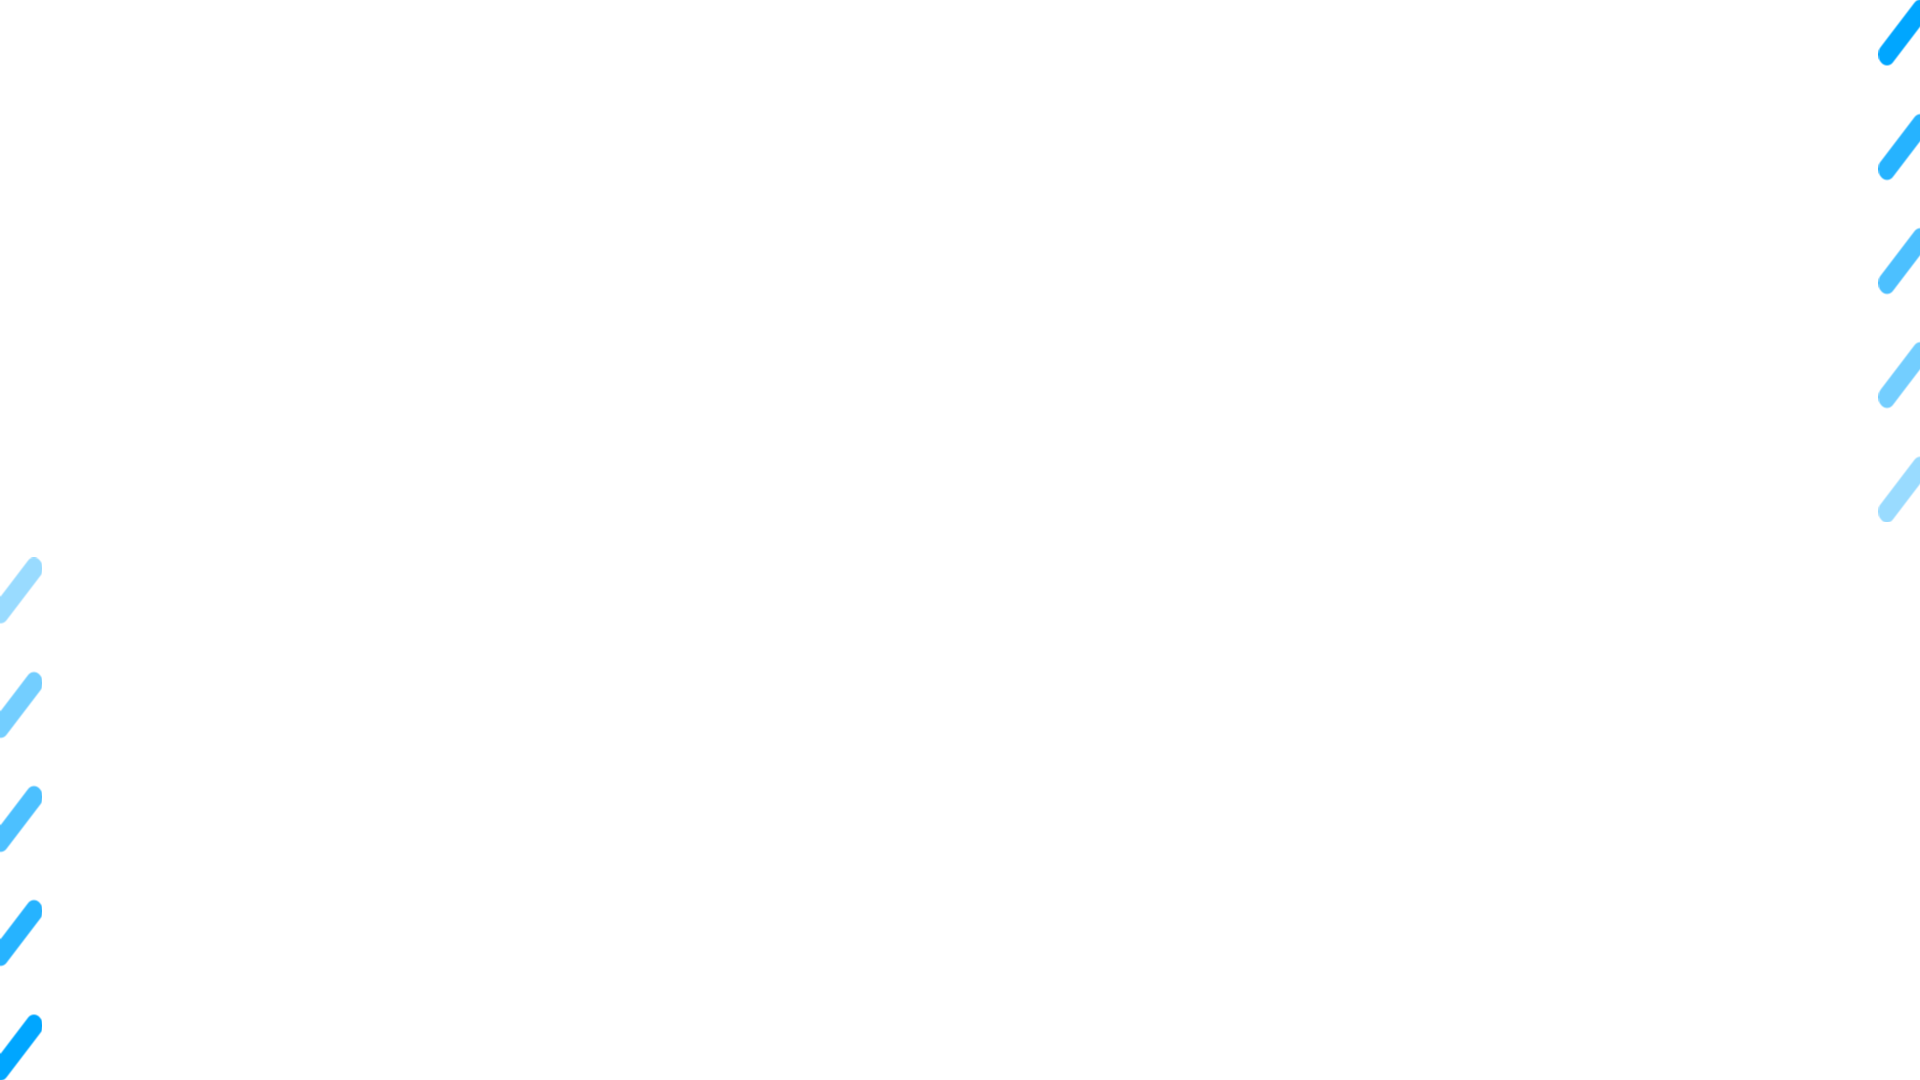
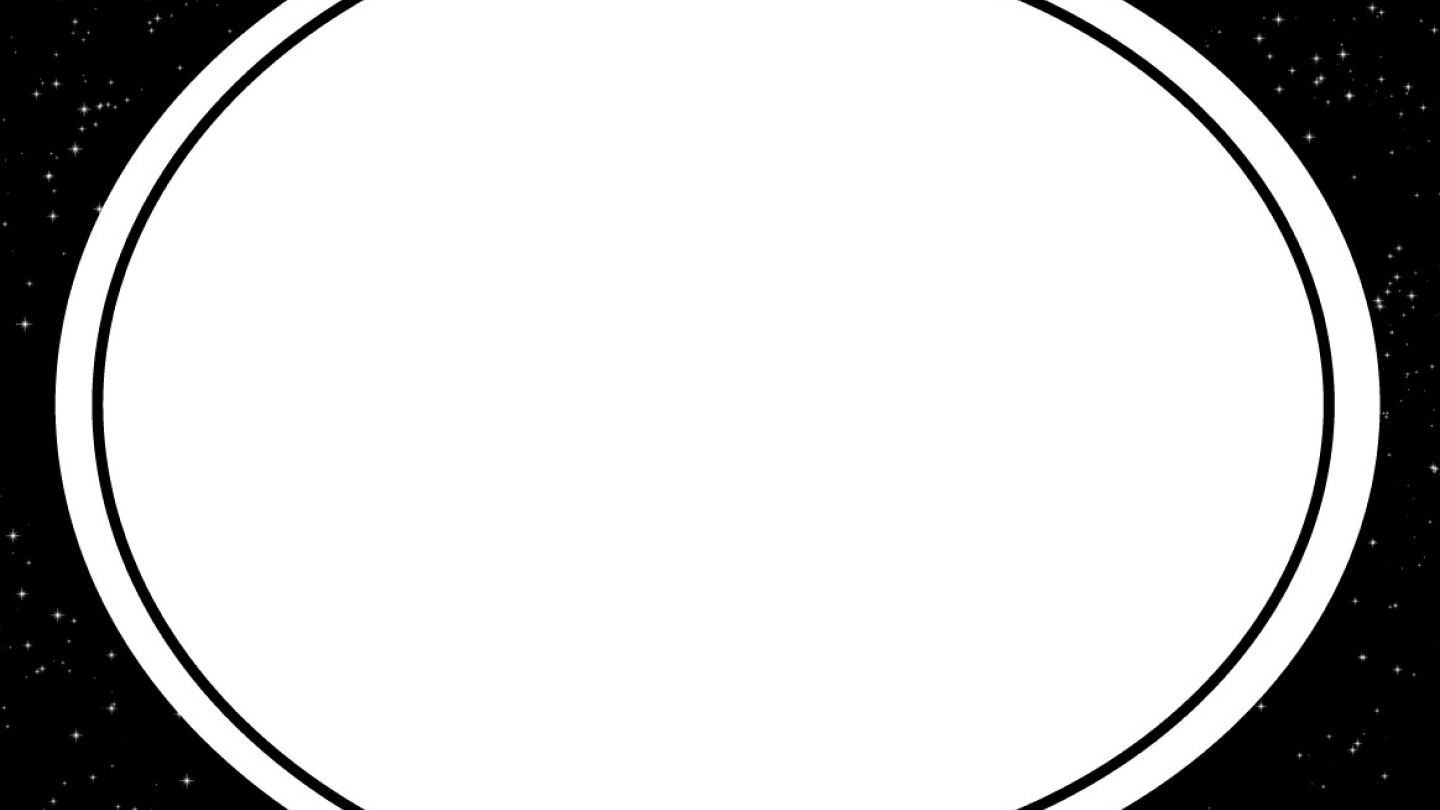
:art: 선택화면 scss 추가

diff --git a/curlfume-clinet/src/components/QuestionScreen/LastQuestion.jsx b/curlfume-clinet/src/components/QuestionScreen/LastQuestion.jsx
@@ -1,6 +1,7 @@
 import React from "react";
 import { useParams, useNavigate, Outlet } from "react-router-dom";
 import LastQuestionData from "./LastQuestionList.json";
+import "../../css/QuestionScreen/QuestionScreen.scss";
 
 const LastQuestion = () => {
   const { baseResult, type } = useParams();
@@ -22,19 +23,23 @@ const LastQuestion = () => {
   return (
     <>
       <div>
-        <div>{currentData.question_no}</div>
-        <div>{currentData.question}</div>
-        <div className="answer_container">
-          {currentData.answers.map((answer, index) => (
-            <div className="answer_content" key={index}>
-              <button
-                data-result={answer.type} // type을 사용하여 데이터를 렌더링합니다.
-                onClick={() => handleButtonClick(answer.type)}
-              >
-                {answer.content}
-              </button>
-            </div>
-          ))}
+        <div className="question_container">
+          <div className="question_title_container">
+            <div className="question_no">{currentData.question_no}</div>
+            <div className="question_title">{currentData.question}</div>
+          </div>
+          <div className="answer_container">
+            {currentData.answers.map((answer, index) => (
+              <div className="answer_content" key={index}>
+                <button
+                  data-result={answer.type} // type을 사용하여 데이터를 렌더링합니다.
+                  onClick={() => handleButtonClick(answer.type)}
+                >
+                  {answer.content}
+                </button>
+              </div>
+            ))}
+          </div>
         </div>
       </div>
       <Outlet /> {/* 중첩된 라우트를 렌더링하는 부분 */}

diff --git a/curlfume-clinet/src/components/QuestionScreen/MiddleQuestion.jsx b/curlfume-clinet/src/components/QuestionScreen/MiddleQuestion.jsx
@@ -1,6 +1,7 @@
 import React from "react";
 import { useParams, useNavigate, Outlet } from "react-router-dom";
 import MiddleQuestionData from "./MiddleQuestionList.json";
+import "../../css/QuestionScreen/QuestionScreen.scss";
 
 const MiddleQuestion = () => {
   const { baseResult } = useParams();
@@ -25,19 +26,23 @@ const MiddleQuestion = () => {
   return (
     <>
       <div>
-        <div>{currentData.question_no}</div>
-        <div>{currentData.question}</div>
-        <div className="answer_container">
-          {currentData.answers.map((answer, index) => (
-            <div className="answer_content" key={index}>
-              <button
-                data-type={answer.type}
-                onClick={() => handleButtonClick(answer.type)}
-              >
-                {answer.content}
-              </button>
-            </div>
-          ))}
+        <div className="question_container">
+          <div className="question_title_container">
+            <div className="question_no">{currentData.question_no}</div>
+            <div className="question_title">{currentData.question}</div>
+          </div>
+          <div className="answer_container">
+            {currentData.answers.map((answer, index) => (
+              <div className="answer_content" key={index}>
+                <button
+                  data-type={answer.type}
+                  onClick={() => handleButtonClick(answer.type)}
+                >
+                  {answer.content}
+                </button>
+              </div>
+            ))}
+          </div>
         </div>
       </div>
       <Outlet /> {/* 중첩된 라우트를 렌더링하는 부분 */}

diff --git a/curlfume-clinet/src/css/QuestionScreen/QuestionScreen.scss b/curlfume-clinet/src/css/QuestionScreen/QuestionScreen.scss
@@ -1,0 +1,63 @@
+body {
+  margin: 0;
+  padding: 0;
+  background-image: url("../../IMG/QuestionScreenImg.png");
+  background-size: cover;
+  background-position: center;
+  height: 100vh;
+  width: 100vw;
+  display: flex;
+  justify-content: center;
+  align-items: center;
+}
+
+.question_container {
+  display: flex;
+  flex-direction: column;
+  align-items: center;
+  text-align: center;
+
+  .question_title_container {
+    display: inline-block;
+    padding: 1em 2em;
+    border-radius: 1em;
+    border: 3px solid black;
+    margin-bottom: 3em;
+    width: fit-content;
+
+    .question_no {
+      font-size: 3.7em;
+      margin-top: 0.7em;
+      margin-bottom: 0.5em;
+    }
+
+    .question_title {
+      font-size: 3.3em;
+      margin-bottom: 0.7em;
+      margin-left: 0.5em;
+      margin-right: 0.5em;
+    }
+  }
+
+  .answer_container {
+    display: flex;
+    flex-direction: column;
+    flex-wrap: wrap;
+    justify-content: center;
+    align-items: center;
+
+    .answer_content button {
+      font-size: 1.5em;
+      width: 24em;
+      height: 3em;
+      margin-top: 1em;
+      margin-bottom: 1em;
+
+      cursor: pointer;
+      border-radius: 1em;
+      border: 3px solid gray;
+
+      background-color: #fff;
+    }
+  }
+}

diff --git a/curlfume-clinet/src/components/QuestionScreen/Question.jsx b/curlfume-clinet/src/components/QuestionScreen/Question.jsx
@@ -1,7 +1,7 @@
 import React, { useState } from "react";
 import Questions from "./QuestionList.json";
 import { useNavigate } from "react-router-dom";
-// import "../../css/QuestionScreen/QuestionScreen.scss";
+import "../../css/QuestionScreen/QuestionScreen.scss";
 
 const Question = () => {
   const navigate = useNavigate();
@@ -52,8 +52,10 @@ const Question = () => {
           (item) =>
             item.id === currentId && (
               <div className="question_container" key={item.id}>
-                <div className="question_no">{item.question_no}</div>
-                <div className="title">{item.question}</div>
+                <div className="question_title_container">
+                  <div className="question_no">{item.question_no}</div>
+                  <div className="question_title">{item.question}</div>
+                </div>
                 <div className="answer_container">
                   {item.answers.map((answer, index) => (
                     <div className="answer_content" key={index}>
